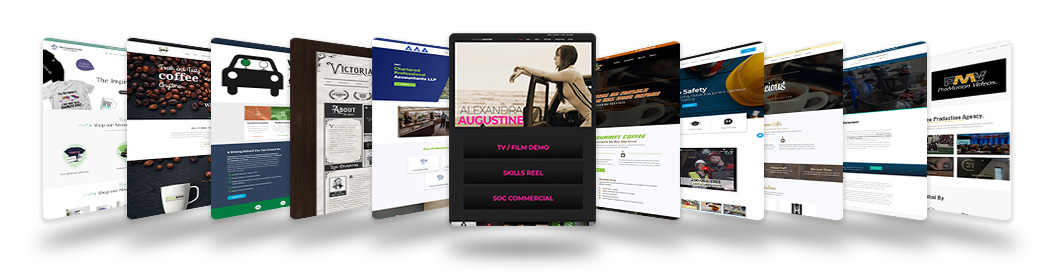
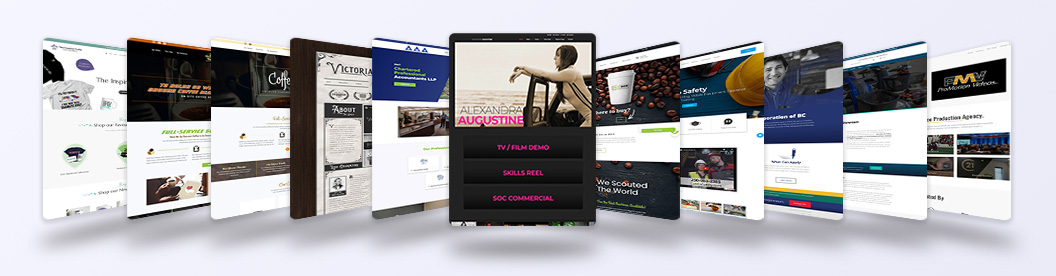
mockups for all 3 "our websites" images, plus accompanying headings and descriptions

diff --git a/public/index.html b/public/index.html
@@ -60,17 +60,17 @@
         <section id="websites" class="section top ">
             <h2 class="center-text">Our<span class="dark-color-text"> Websites</span> </h2>
             <div class="designSVG text-underline addSVG"></div>
-            <p class="center-text">We specialize in small business web design and development for clients anywhere in the US. Every line of code is written by hand to ensure the best performance, which helps bring in more customers to your site and bring more revenue to your
-                business.
+            <p class="center-text">Take a moment to explore our carefully curated portfolio, showcasing some of our proudest achievements. Each project tells a unique story of collaboration, innovation, and success. We invite you to envision the possibilities and trust us to
+                turn your dreams into reality.
             </p>
             <div class="websites-content">
 
                 <div class="website-feature shadowed-box">
-                    <div class="websites-image"><img src="/assets/ideas/01_powerpoint-.webp" alt="website" />
-                        <span class="projectName">Website Name</span>
+                    <div class="websites-image"><img src="/assets/websites/feature-website-one.jpg" alt="website" />
+                        <span class="projectName">The Messy Actor</span>
                         <div class="websites-hover">
-                            <h3 class="light-color-text">HOME RESIDENTIAL MOVING</h3>
-                            <p>A momentous occasion in anyone’s life is the they move away to school. Hugging mom and dad goodbye, and moving to a new town for the next 4+ yearsLear moremovers</p>
+                            <h3 class="light-color-text">The Messy Actor</h3>
+                            <p>A custom coded blog, where actors can go for tips, advice, and resources.</p>
                             <a class="light-color-text" href="#">Learn More <span class="material-symbols-outlined">
                                 arrow_right_alt
                                 </span></a>
@@ -79,11 +79,11 @@
 
                 </div>
                 <div class="website-feature shadowed-box">
-                    <div class="websites-image"><img src="/assets/ideas/download.jpg" alt="website" />
-                        <span class="projectName">Website Name</span>
+                    <div class="websites-image"><img src="/assets/websites/feature-website-two.jpg" alt="website" />
+                        <span class="projectName">Route 16</span>
                         <div class="websites-hover">
-                            <h3 class="light-color-text">HOME RESIDENTIAL MOVING</h3>
-                            <p>A momentous occasion in anyone’s life is the they move away to school. Hugging mom and dad goodbye, and moving to a new town for the next 4+ yearsLear moremovers</p>
+                            <h3 class="light-color-text">Route 16 Tourism</h3>
+                            <p>Route 16 is a trip-planning website for motorcycle enthusiasts. It features a built in route & itinerary planner that showcases scenic destinations and local must-visit shops along British Columbia's Route 16 Highway.</p>
                             <a class="light-color-text" href="#">Learn More <span class="material-symbols-outlined">
                                 arrow_right_alt
                                 </span></a>
